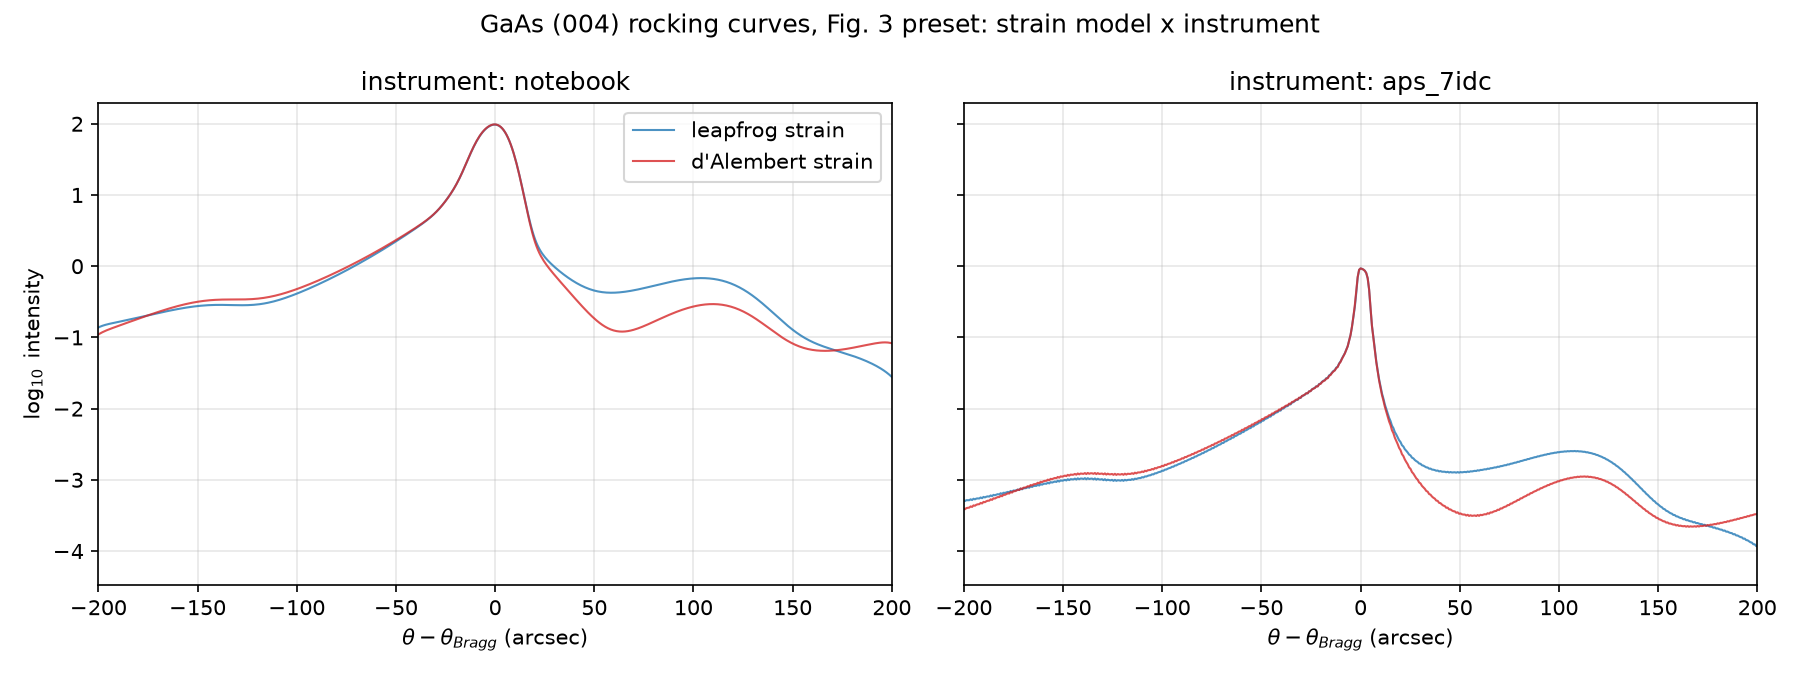
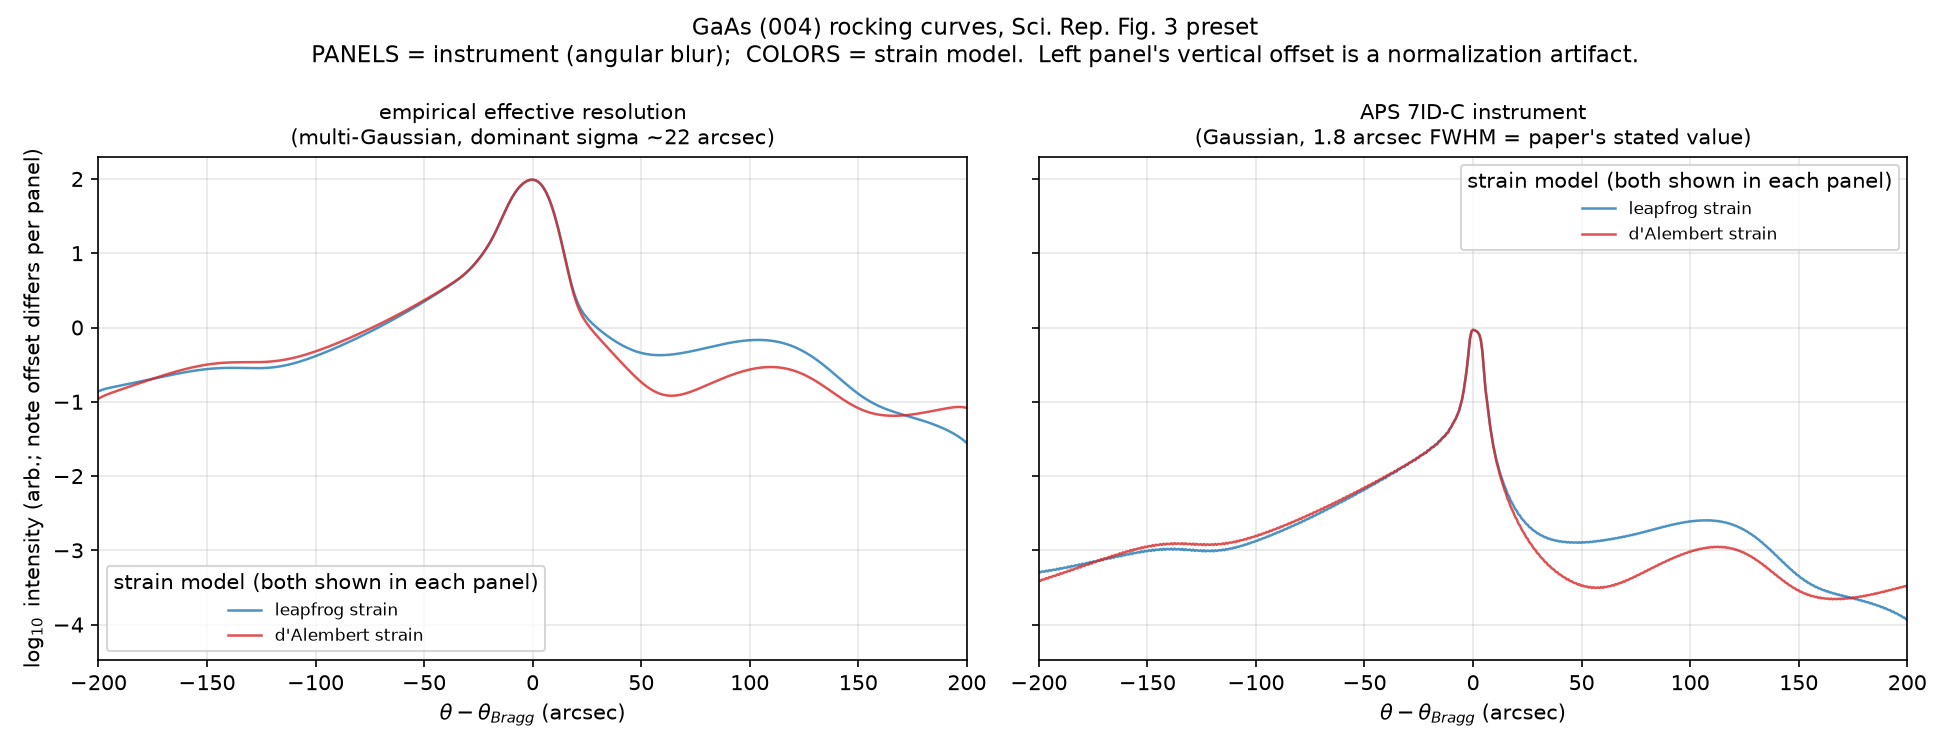
Rename 'notebook' instrument -> 'empirical'; clarify it is effective (not stated) resolution
- 'empirical' = fitted multi-Gaussian effective resolution (instrument +
  sample + fit), dominant sigma ~22 arcsec; 'notebook' kept as deprecated alias
- docs/INSTRUMENTS.md: explains why empirical matches the published Fig. 3
  curve better than the paper's stated 1.8 arcsec APS resolution, plus a guide
  to reading the 2x2 rocking-curve matrix figure (panels=instrument,
  colors=strain model, left-panel offset is a normalization artifact)
- pipeline.resolve_instrument() maps the alias; result records canonical name
- test: notebook alias -> empirical

diff --git a/src/xrd_strain/pipeline.py b/src/xrd_strain/pipeline.py
@@ -9,7 +9,15 @@ from xrd_strain.detector.resolution import apply_detector_resolution
 from xrd_strain.io import StrainProfile
 from xrd_strain.models import XrdResult
 
-INSTRUMENTS = ("notebook", "aps_7idc", "none")
+INSTRUMENTS = ("empirical", "aps_7idc", "none")
+
+# Backward-compatible aliases for renamed instruments.
+_INSTRUMENT_ALIASES = {"notebook": "empirical"}
+
+
+def resolve_instrument(name: str) -> str:
+    """Map deprecated instrument names to their current key."""
+    return _INSTRUMENT_ALIASES.get(name, name)
 
 
 def run_xrd(
@@ -37,13 +45,14 @@ def run_xrd(
         config.strain_eps,
     )
 
-    if config.instrument == "notebook":
+    instrument = resolve_instrument(config.instrument)
+    if instrument == "empirical":
         intensity = apply_detector_resolution(rad, detector.as_tuple(), intensity)
-    elif config.instrument == "aps_7idc":
+    elif instrument == "aps_7idc":
         intensity = apply_gaussian_instrument(
             rad, intensity, config.instrument_fwhm_arcsec
         )
-    elif config.instrument == "none":
+    elif instrument == "none":
         pass
     else:
         raise ValueError(
@@ -59,5 +68,5 @@ def run_xrd(
         crystal=config.crystal,
         substrate_material=profile.substrate_material,
         strain_model=profile.model,
-        instrument=config.instrument,
+        instrument=instrument,
     )

diff --git a/src/xrd_strain/config.py b/src/xrd_strain/config.py
@@ -13,10 +13,14 @@ class XrdConfig:
     ``instrument`` selects the angular-resolution model applied to the
     computed curve:
 
-    - ``"notebook"``  — multi-Gaussian model inherited from the original
-      notebook / thermo-elastic-gaas (paper-reproduction default).
-    - ``"aps_7idc"``  — single Gaussian with ``instrument_fwhm_arcsec`` FWHM
-      (Sci. Rep. 2022 quotes 0.5 mdeg ≈ 1.8 arcsec at APS 7ID-C).
+    - ``"empirical"`` — multi-Gaussian *effective* resolution (instrument +
+      sample + fit) inherited from the original notebook / thermo-elastic-gaas.
+      Dominant component σ ≈ 22 arcsec, so it smooths heavily. This is the
+      paper-reproduction default because it best matches the smoothness of the
+      published Fig. 3 fit curve. (Deprecated alias: ``"notebook"``.)
+    - ``"aps_7idc"``  — single Gaussian with ``instrument_fwhm_arcsec`` FWHM.
+      This is the *physical* instrument resolution the paper quotes for APS
+      7ID-C (0.5 mdeg ≈ 1.8 arcsec), i.e. a light blur only.
     - ``"none"``      — raw dynamical-diffraction curve, no convolution.
     """
 
@@ -26,7 +30,7 @@ class XrdConfig:
     n_points: int = 100
     strain_eps: float = 1e-6
     log10_intensity: bool = True
-    instrument: str = "notebook"
+    instrument: str = "empirical"
     instrument_fwhm_arcsec: float = 1.8
 
 

diff --git a/tests/test_smoke.py b/tests/test_smoke.py
@@ -62,3 +62,12 @@ def test_instrument_options():
     assert np.all(np.isfinite(raw.intensity))
     assert np.all(np.isfinite(aps.intensity))
     assert not np.allclose(raw.intensity, aps.intensity)
+
+
+def test_notebook_alias_maps_to_empirical():
+    profile = _dummy_profile()
+    empirical = run_xrd(profile, config=XrdConfig(n_points=30, instrument="empirical"))
+    aliased = run_xrd(profile, config=XrdConfig(n_points=30, instrument="notebook"))
+    np.testing.assert_allclose(aliased.intensity, empirical.intensity)
+    # Result records the resolved (canonical) name, not the alias.
+    assert aliased.instrument == "empirical"

diff --git a/src/xrd_strain/cli.py b/src/xrd_strain/cli.py
@@ -31,9 +31,10 @@ def main() -> None:
     )
     parser.add_argument(
         "--instrument",
-        default="notebook",
-        choices=list(INSTRUMENTS),
-        help="Angular resolution model (see docs/INSTRUMENTS.md)",
+        default="empirical",
+        choices=list(INSTRUMENTS) + ["notebook"],
+        help="Angular resolution model; 'notebook' is a deprecated alias for "
+        "'empirical' (see docs/INSTRUMENTS.md)",
     )
     parser.add_argument(
         "--instrument-fwhm-arcsec",

diff --git a/src/xrd_strain/models.py b/src/xrd_strain/models.py
@@ -12,4 +12,4 @@ class XrdResult:
     crystal: str
     substrate_material: str
     strain_model: str
-    instrument: str = "notebook"
+    instrument: str = "empirical"

diff --git a/docs/INSTRUMENTS.md b/docs/INSTRUMENTS.md
@@ -1,14 +1,18 @@
 # Instrument (angular resolution) models
 
 The computed dynamical-diffraction rocking curve can be convolved with an
-instrument model before output. Select with `--instrument` on the CLI or
-`XrdConfig(instrument=...)`.
+angular-resolution model before output. Select with `--instrument` on the CLI
+or `XrdConfig(instrument=...)`.
 
-| instrument | description |
-|---|---|
-| `notebook` (default) | Multi-Gaussian detector model inherited from the original notebook / thermo-elastic-gaas (tag `paper-v1.0`). Kept as the paper-reproduction default. Note its normalization (`y/len(y)`) shifts the absolute log10 scale. |
-| `aps_7idc` | Single area-normalized Gaussian, FWHM `--instrument-fwhm-arcsec` (default 1.8). The Sci. Rep. 2022 experiment quotes 0.5 mdeg ≈ 1.8 arcsec resolution at APS 7ID-C. |
-| `none` | Raw curve, no convolution. |
+| instrument | kernel | meaning |
+|---|---|---|
+| `empirical` (default) | multi-Gaussian, dominant σ ≈ 22 arcsec | **Effective** resolution (instrument + sample + fit) inherited from the original notebook / thermo-elastic-gaas (tag `paper-v1.0`). Heavy smoothing. Best matches the *smoothness of the published Fig. 3 fit curve*, so it is the paper-reproduction default. |
+| `aps_7idc` | single Gaussian, `--instrument-fwhm-arcsec` (default 1.8) | The **physical** instrument resolution the paper *states* for APS 7ID-C: 0.5 mdeg ≈ 1.8 arcsec. A light blur only. |
+| `none` | — | Raw dynamical-diffraction curve, no convolution. |
+
+> Deprecated alias: `--instrument notebook` still works and maps to
+> `empirical` (see `pipeline.resolve_instrument`). It was renamed because it is
+> not the physical instrument function — see below.
 
 ```bash
 python scripts/run.py --strain-file strain.npz \
@@ -17,37 +21,81 @@ python scripts/run.py --strain-file strain.npz \
   --save-arrays results/curve.npz --no-show
 ```
 
-## Sampling requirement
+## Why `empirical`, not `notebook` or `instrument`
 
-The Gaussian convolution acts on the discrete angular grid. For it to be
-meaningful, the angular step must resolve the kernel: step < sigma
-(sigma = FWHM / 2.355; 1.8 arcsec FWHM -> sigma ≈ 0.76 arcsec, so use a step
-of ~0.7 arcsec or finer). At the historical default sampling
-(0.1 deg / 100 points = 3.6 arcsec/pt) a 1.8 arcsec kernel is effectively an
-identity, and `apply_gaussian_instrument` degrades gracefully to
-almost-no-op.
+The original notebook applied a **fitted multi-Gaussian** to match a measured
+rocking curve. Its widths (`DetectorConfig`, in degrees of σ) are
+approximately 4.8, **21.6**, 5.8, 5.4 arcsec — the dominant component is
+~22 arcsec, i.e. **more than 10× wider** than the 1.8 arcsec the paper quotes
+as the APS 7ID-C angular resolution.
 
-Fine sampling used to be memory-prohibitive: the original whole-array
-`xrd_slab_gaas` allocates O(n_layers * n_angles) 4x4 complex propagation
-matrices (>1 GB for ~3700 layers x ~600 angles). The calculator now uses
-`xrd_slab_gaas_lowmem`, an angle-by-angle wrapper that is numerically
-identical (asserted in `tests/test_smoke.py`) with flat memory use.
+That width therefore cannot be pure instrument resolution. It is an
+*effective* broadening that lumps together several real contributions the
+1.8 arcsec number omits:
 
-## Physical note on the 1.8 arcsec resolution
+- crystal mosaic spread / sample imperfection,
+- probe-depth averaging over the strained profile,
+- beam divergence and energy bandwidth,
+- smoothing implicit in the published *fit* line (vs raw data points).
 
-At the Fig. 3 conditions the diffraction features (thickness fringes and
-strain shoulder) have ~10–20 arcsec scales, so a 1.8 arcsec instrument only
-reduces fringe contrast by a few percent — it does *not* explain all of the
-smoothness of the published fit curve. Use `--instrument-fwhm-arcsec` to
-explore stronger effective broadening if matching a specific measured curve.
+Hence the name `empirical` (empirically-fit effective resolution) rather than
+`notebook` (where it came from) or `instrument` (which it is not, exclusively).
 
-## Validation matrix (with strain-wave-simulation)
+## Does the empirical model match the paper better than 1.8 arcsec? Yes.
 
-`strain-wave-simulation/scripts/validation_matrix.py` runs 2 strain models
-x 2 instruments on the paper Fig. 3 preset. Result:
+Comparing against the published Fig. 3 rocking curve:
+
+- `aps_7idc` at the paper's stated 1.8 arcsec is a *light* blur: it leaves a
+  sharp Bragg cusp and crisp thickness fringes that are **not** visible in the
+  published smooth fit curve.
+- `empirical` (σ ≈ 22 arcsec) smooths the peak and fringes and reproduces the
+  **smoothness** of the published curve much more closely.
+
+**Conclusion:** the smooth curve plotted in the paper is broader than the
+paper's own stated 1.8 arcsec instrument resolution. The extra width comes
+from sample/experimental/fit effects (listed above), which `empirical`
+captures phenomenologically. So `empirical` is the right default for
+reproducing the paper's *figure*, while `aps_7idc` is the right choice when you
+want the response of the *stated instrument alone*.
+
+## Reading the validation-matrix rocking-curve figure
 
 ![rocking curve matrix](images/matrix_rocking.png)
 
-The strain-model choice (leapfrog vs d'Alembert far field) changes the curve
-by at most ~0.6–0.8 in log10 intensity, only in the weak shoulder at
-+50…+150 arcsec; the Bragg peak is unaffected.
+This figure is a 2×2 matrix (2 strain models × 2 instruments) drawn as **two
+panels sharing the same two colored lines**:
+
+- **PANELS = instrument.** Left = `empirical` (σ ≈ 22 arcsec, heavy blur);
+  right = `aps_7idc` (1.8 arcsec FWHM, light blur).
+- **COLORS = strain model.** Blue = leapfrog (`ttm_cr_gaas`); red = d'Alembert
+  (`ttm_dalembert_cr_gaas`). **Both** colors appear in **both** panels.
+
+Two things explain why the panels look different, and neither is the strain
+model:
+
+1. **Vertical offset (left panel sits ~2 decades higher).** The `empirical`
+   convolution ends with `y / len(y)` (a normalization quirk), which shifts the
+   absolute log₁₀ scale. Only curve *shape* is meaningful on a log plot — ignore
+   the panel-to-panel vertical position.
+2. **Peak sharpness.** The wide `empirical` kernel rounds the Bragg peak and
+   washes out fringes; the narrow `aps_7idc` kernel leaves a sharper cusp and
+   more shoulder structure.
+
+The physics takeaway: within each panel, blue vs red differ by at most
+~0.6–0.8 in log₁₀ I and only in the weak +50…+150 arcsec shoulder. The Bragg
+peak and low-angle asymmetry — the features used for paper validation — are
+unchanged by the strain-model choice.
+
+## Sampling requirement
+
+The convolution acts on the discrete angular grid, so the step must resolve
+the kernel: step < σ. For `aps_7idc` (σ ≈ 0.76 arcsec) use ≤ ~0.7 arcsec/pt.
+At the historical default (0.1 deg / 100 pts = 3.6 arcsec/pt) a 1.8 arcsec
+kernel is effectively an identity, and `apply_gaussian_instrument` degrades
+gracefully to almost-no-op.
+
+Fine sampling used to be memory-prohibitive: the original whole-array
+`xrd_slab_gaas` allocates O(n_layers × n_angles) 4×4 complex matrices (>1 GB
+for ~3700 layers × ~600 angles). The calculator now uses
+`xrd_slab_gaas_lowmem`, an angle-by-angle wrapper that is numerically
+identical (asserted in `tests/test_smoke.py`) with flat memory use.

diff --git a/README.md b/README.md
@@ -8,11 +8,13 @@ Compute X-ray diffraction rocking curves from depth-dependent strain profiles. S
 
 ## Instrument models
 
-Switch with `--instrument` (see `docs/INSTRUMENTS.md`):
+Switch with `--instrument` (see `docs/INSTRUMENTS.md` for details and the figure guide):
 
-- `notebook` (default) — multi-Gaussian detector model from the original notebook
-- `aps_7idc` — Gaussian, configurable FWHM (default 1.8 arcsec, per the Sci. Rep. 2022 experiment)
+- `empirical` (default) — multi-Gaussian **effective** resolution (instrument + sample + fit) from the original notebook; dominant σ ≈ 22 arcsec. Heavy smoothing; best matches the smoothness of the published Fig. 3 fit curve. (Deprecated alias: `notebook`.)
+- `aps_7idc` — single Gaussian at the paper's **stated** APS 7ID-C resolution (default 1.8 arcsec FWHM, configurable). Light blur only.
 - `none` — raw dynamical-diffraction curve
+
+Note: the `empirical` model reproduces the paper's *plotted* curve better than the paper's own stated 1.8 arcsec resolution does — the published curve is broader than pure instrument response (sample mosaic, depth averaging, beam divergence, fit smoothing). See `docs/INSTRUMENTS.md`.
 
 ## Quick start
 